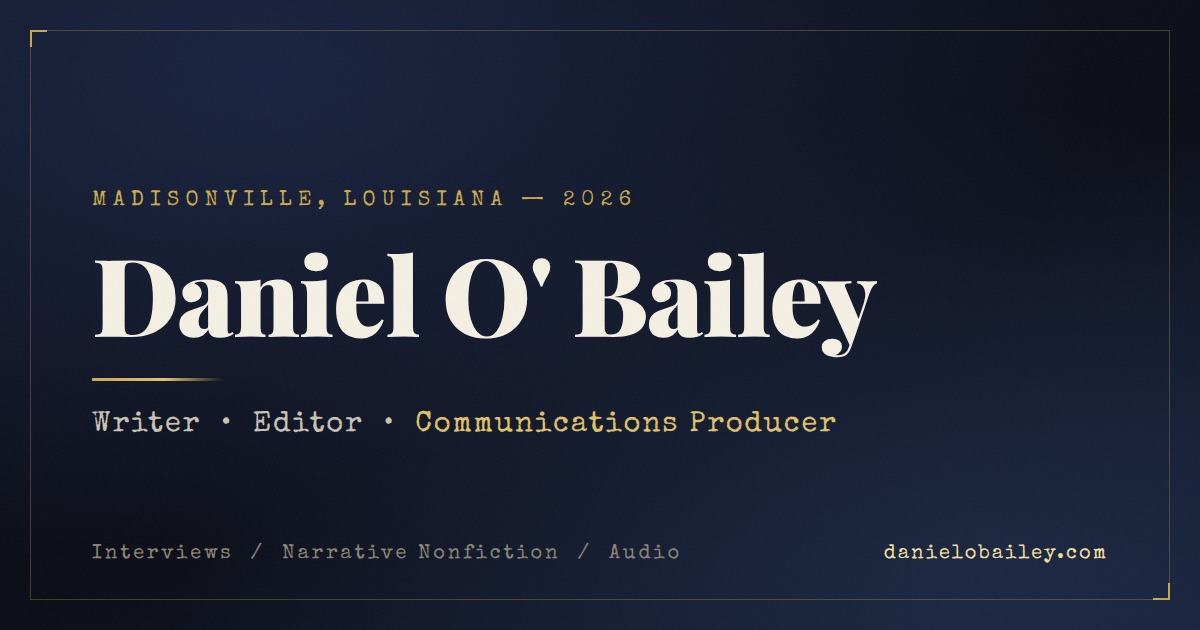
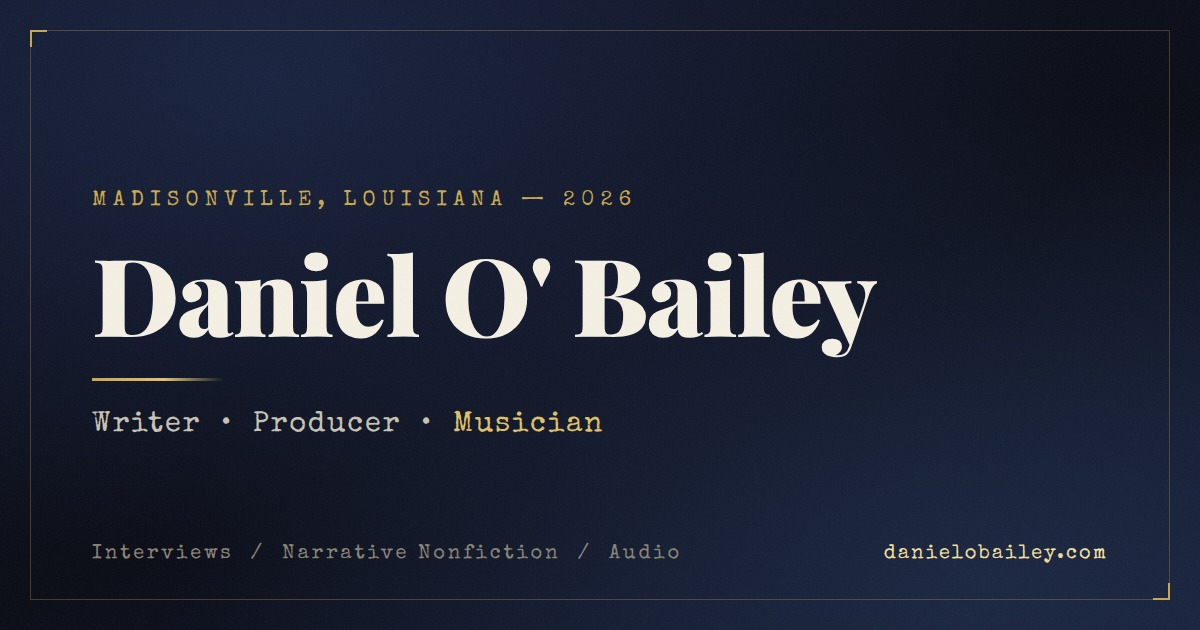
Lead with Writer, Producer, Musician
Update the headline identity across the hero, page title, Open Graph and
Twitter titles, image alt text, and the ProfilePage schema name, and
rebuild the share image to match. The full role set (editor, festival
organizer, social media, communications producer) remains in the Person
schema and body copy.

Claude-Session: https://claude.ai/code/session_019ESWXFM9o7hpYUAgNU9463

Changed region(s): [[0.2158, 0.6333, 0.7092, 0.6937]]

diff --git a/index.html b/index.html
@@ -4,7 +4,7 @@
   <meta charset="UTF-8">
   <meta name="viewport" content="width=device-width, initial-scale=1.0">
 
-  <title>Daniel O' Bailey — Writer, Editor &amp; Communications Producer</title>
+  <title>Daniel O' Bailey — Writer, Producer &amp; Musician</title>
   <meta name="description" content="Daniel O' Bailey is a writer, editor, interviewer, musician, and communications producer from Madisonville, Louisiana. Editorial strategy, narrative nonfiction, interviews, public communications, and multimedia production.">
   <meta name="author" content="Daniel O' Bailey">
   <meta name="robots" content="index, follow, max-image-preview:large, max-snippet:-1">
@@ -14,17 +14,17 @@
   <meta property="og:type" content="profile">
   <meta property="og:site_name" content="Daniel O' Bailey">
   <meta property="og:url" content="https://danielobailey.com/">
-  <meta property="og:title" content="Daniel O' Bailey — Writer, Editor &amp; Communications Producer">
+  <meta property="og:title" content="Daniel O' Bailey — Writer, Producer &amp; Musician">
   <meta property="og:description" content="Writer, editor, interviewer, and communications producer from Madisonville, Louisiana. Interviews, narrative nonfiction, public communications, and audio production.">
   <meta property="og:image" content="https://danielobailey.com/og-image.jpg">
   <meta property="og:image:width" content="1200">
   <meta property="og:image:height" content="630">
-  <meta property="og:image:alt" content="Daniel O' Bailey — Writer, Editor and Communications Producer, Madisonville, Louisiana">
+  <meta property="og:image:alt" content="Daniel O' Bailey — Writer, Producer and Musician, Madisonville, Louisiana">
   <meta property="og:locale" content="en_US">
   <meta property="profile:first_name" content="Daniel">
   <meta property="profile:last_name" content="Bailey">
   <meta name="twitter:card" content="summary_large_image">
-  <meta name="twitter:title" content="Daniel O' Bailey — Writer, Editor &amp; Communications Producer">
+  <meta name="twitter:title" content="Daniel O' Bailey — Writer, Producer &amp; Musician">
   <meta name="twitter:description" content="Writer, editor, interviewer, and communications producer from Madisonville, Louisiana.">
   <meta name="twitter:image" content="https://danielobailey.com/og-image.jpg">
 
@@ -105,7 +105,7 @@
         "@type": "ProfilePage",
         "@id": "https://danielobailey.com/#webpage",
         "url": "https://danielobailey.com/",
-        "name": "Daniel O' Bailey — Writer, Editor & Communications Producer",
+        "name": "Daniel O' Bailey — Writer, Producer & Musician",
         "isPartOf": { "@id": "https://danielobailey.com/#website" },
         "about": { "@id": "https://danielobailey.com/#person" },
         "primaryImageOfPage": "https://danielobailey.com/og-image.jpg",
@@ -143,7 +143,7 @@
         <span class="hero-date">Madisonville, Louisiana &mdash; 2026</span>
         <h1 class="hero-name">Daniel O' Bailey</h1>
         <div class="hero-underline"></div>
-        <p class="hero-subtitle">Writer &bull; Editor &bull; Communications Producer</p>
+        <p class="hero-subtitle">Writer &bull; Producer &bull; Musician</p>
         <p class="hero-tagline">I turn interviews, public research, music, and culture into clear stories people can feel and understand.</p>
         <div class="hero-actions">
           <a href="#hire" class="btn btn--dark">For Hiring Teams</a>
